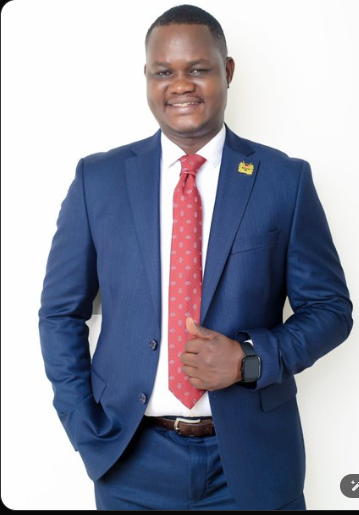
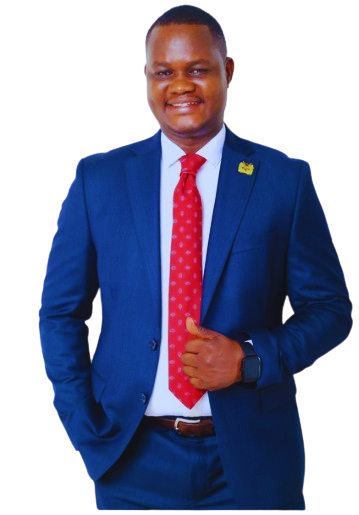
Add update  in Team.jxs

diff --git a/src/components/Team.jsx b/src/components/Team.jsx
@@ -1,8 +1,8 @@
 import Team1 from '../assets/Team1-Justus.png'
 import Team2 from '../assets/Team2-Ruben.png'
-import Team3 from '../assets/Team3-Jennifer.jpg'
-import Team4 from '../assets/Team4-Isaac.jpg'
-import Team5 from '../assets/Team5-Hellen.jpg'
+import Team3 from '../assets/Team3-Jennifer.png'
+import Team4 from '../assets/Team4-Isaac.png'
+import Team5 from '../assets/Team5-Hellen.png'
 import Team6 from '../assets/Team6-Joy.png'
 
 
